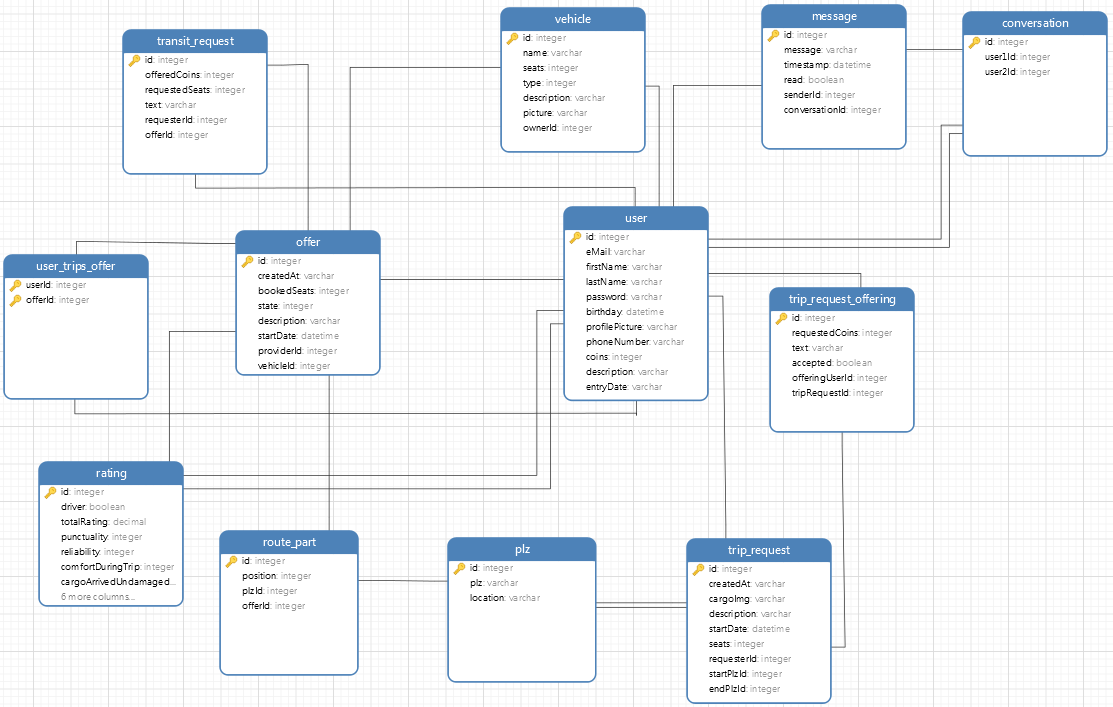
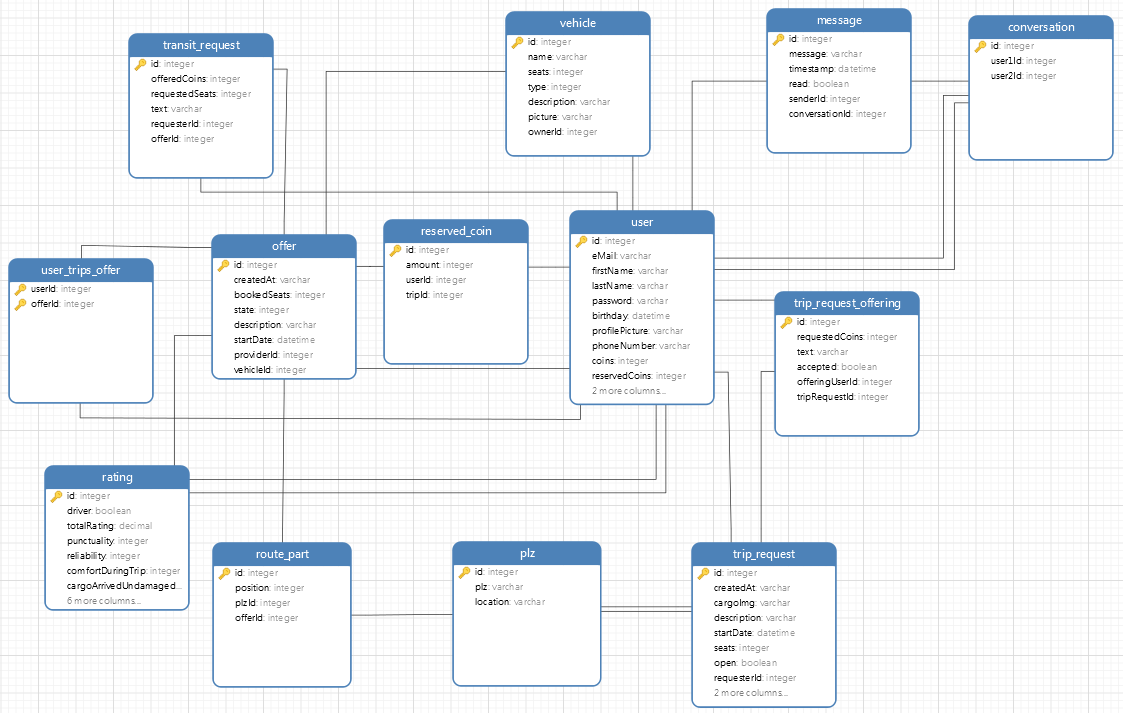
Update ER Diagram with new database table

diff --git a/README.md b/README.md
@@ -70,7 +70,7 @@ API Doku: http://localhost:3000/api/
 
 Deployment: http://85.215.49.94:8000/ | Nutzer: test | PW: 1234
 
-Klassendiagramm:  [`documentation/???`](documentation/???)
+ER Diagram:  [`documentation/???`](documentation/ERDiagram.png)
 
 Domainmodell:  [`documentation/domainmodell.svg`](documentation/domainmodell.svg)
 
